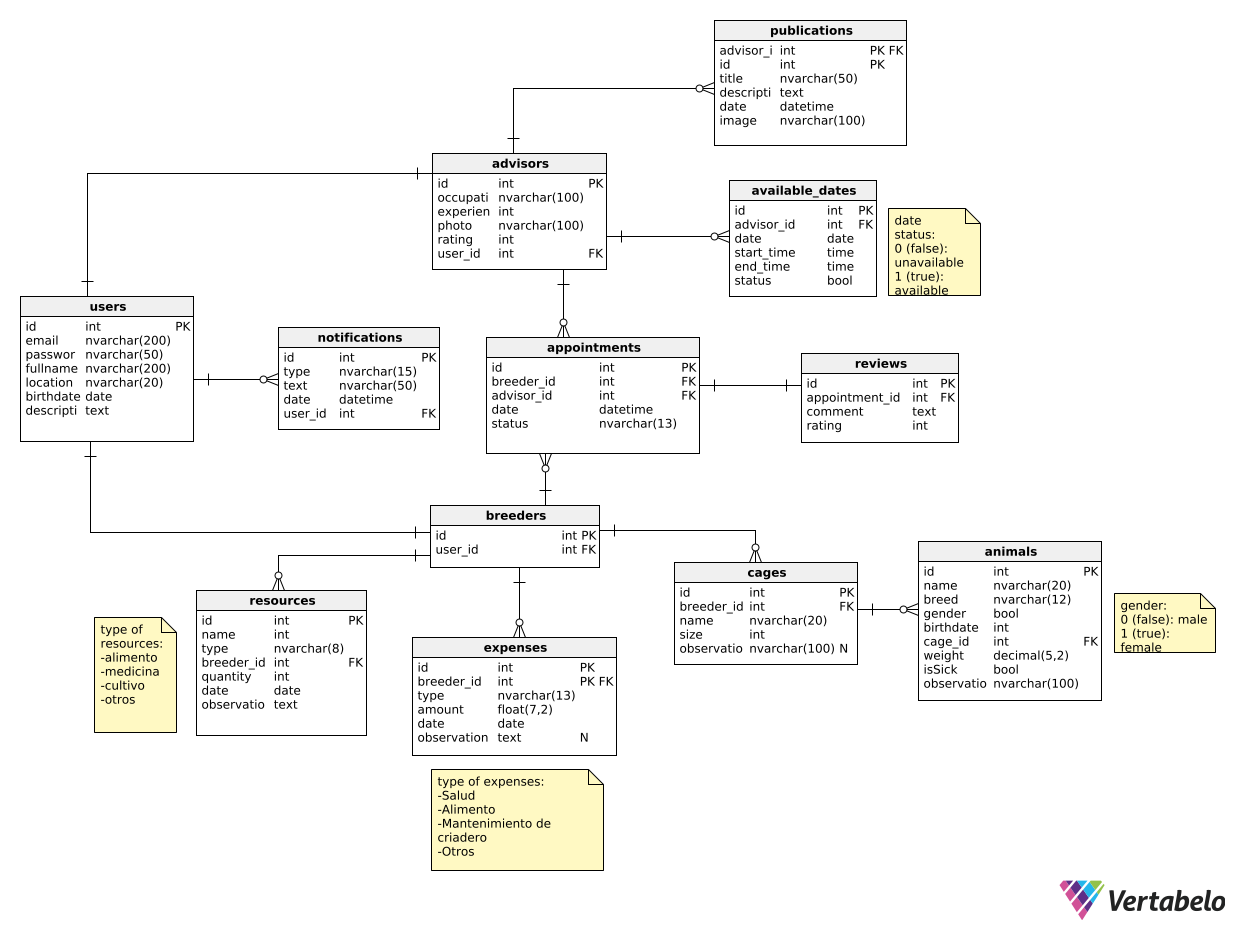
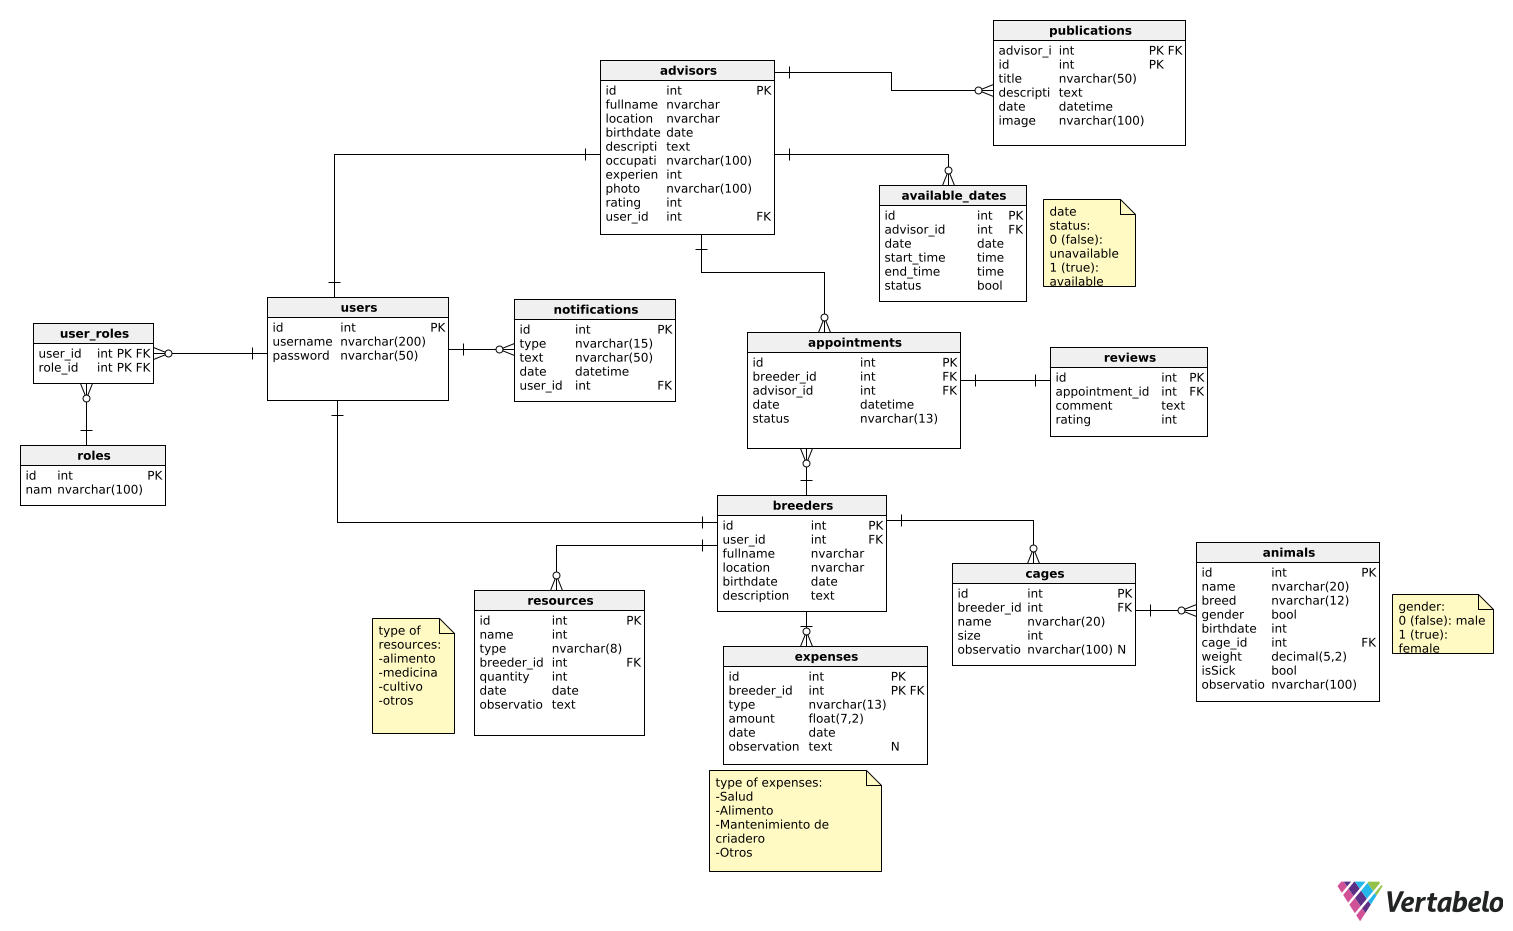
docs(iam): update database and class diagrams

diff --git a/README.md b/README.md
@@ -2181,28 +2181,27 @@ _Imagen 116. Diagrama de Clases Publication Bounded Context_
 #### User Bounded Context
 
 **User (Aggregate)**
-La clase User contiene toda la información de un usuario registrado dentro de la aplicación.
+La clase User contiene la información de autenticación de un usuario registrado dentro de la aplicación.
 
 **Atributos:**
 - id: int - Identificador único del usuario
-- fullname: Fullname - Nombre completo del usuario
-- emailAddress: EmailAddress - Correo electrónico del usuario
-- password: Password - Contraseña del usuario
-- location: Location - Ubicación del usuario
-- birthDate: BirthDate - Fecha de nacimiento del usuario
-- description: Description - Descripción del usuario
+- username: string - Correo electrónico del usuario
+- password: string - Contraseña del usuario
 
 **Métodos:**
 - getUser(): Devuelve los detalles del usuario.
-- updateUser(): Actualiza los detalles del usuario.
 
 -----
 
-**Breeder (Entity)**
+**Breeder (Aggregate)**
 La clase Breeder representa a un criador dentro de la aplicación y tiene una relación de dependencia con User.
 
 **Atributos:**
 - id: int - Identificador único del criador
+- fullname: string - Nombre completo del criador
+- location: string - Ubicación del criador
+- birthDate: LocalDate - Fecha de nacimiento del criador
+- description: string - Descripción del criador
 - userId: int - Identificador del usuario
 
 **Métodos:**
@@ -2210,11 +2209,15 @@ La clase Breeder representa a un criador dentro de la aplicación y tiene una re
 
 -----
 
-**Advisor (Entity)**
+**Advisor (Aggregate)**
 La clase Advisor representa a un asesor dentro de la aplicación y tiene una relación de dependencia con User.
 
 **Atributos:**
 - id: int - Identificador único del asesor
+- fullname: string - Nombre completo del asesor
+- location: string - Ubicación del asesor
+- birthDate: LocalDate - Fecha de nacimiento del asesor
+- description: string - Descripción del asesor
 - occupation: string - Ocupación del asesor
 - experience: int - Años de experiencia del asesor
 - photo: string - Foto del asesor
@@ -2237,6 +2240,22 @@ La clase AvailableDate representa las fechas disponibles de un asesor para progr
 **Métodos:**
 - getAvailableDate(): Devuelve los detalles de la fecha disponible.
 - getStatus(): Devuelve el estado de la fecha disponible.
+
+-----
+
+**Notification (Entity)**
+La clase Notification representa una notificación dentro de la aplicación.
+
+**Atributos:**
+- id: int - Identificador único de la fecha disponible
+- type: string - Tipo de notificación
+- text: string - Texto de la notificación
+- date: Date - Fecha de la notificación
+- meetingUrl: string - Enlace de reunión para cita
+- userId: int - Identificador del usuario
+
+**Métodos:**
+- getNotification(): Devuelve los detalles de la notificación.
 
 -----
 
